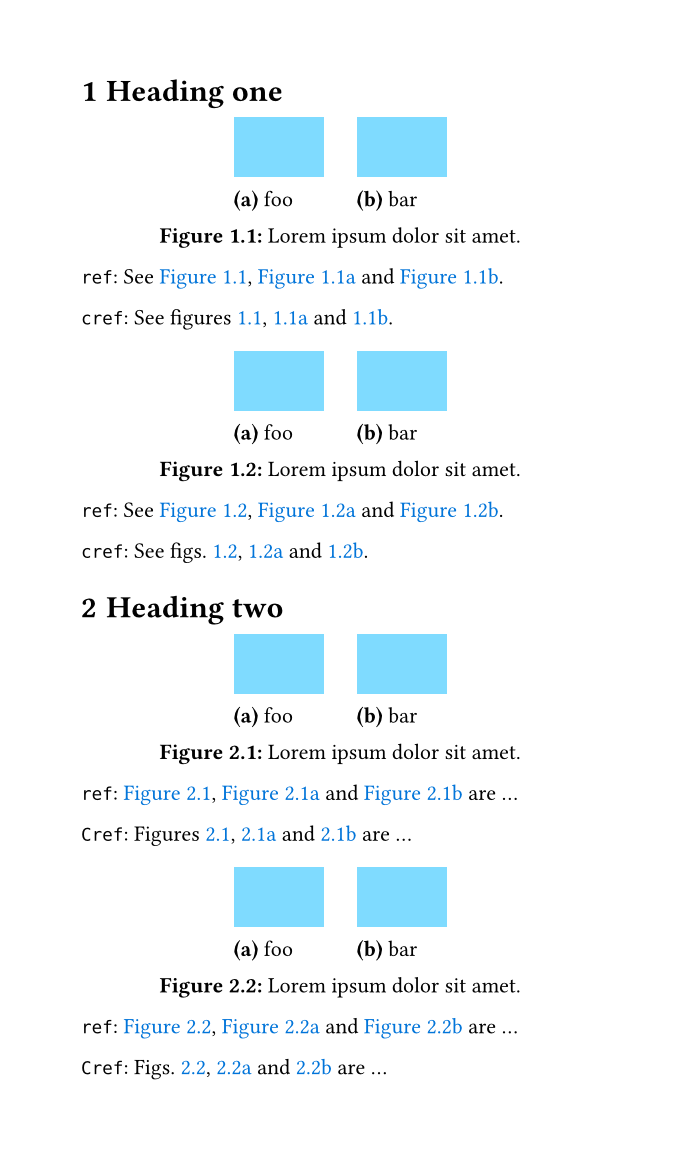
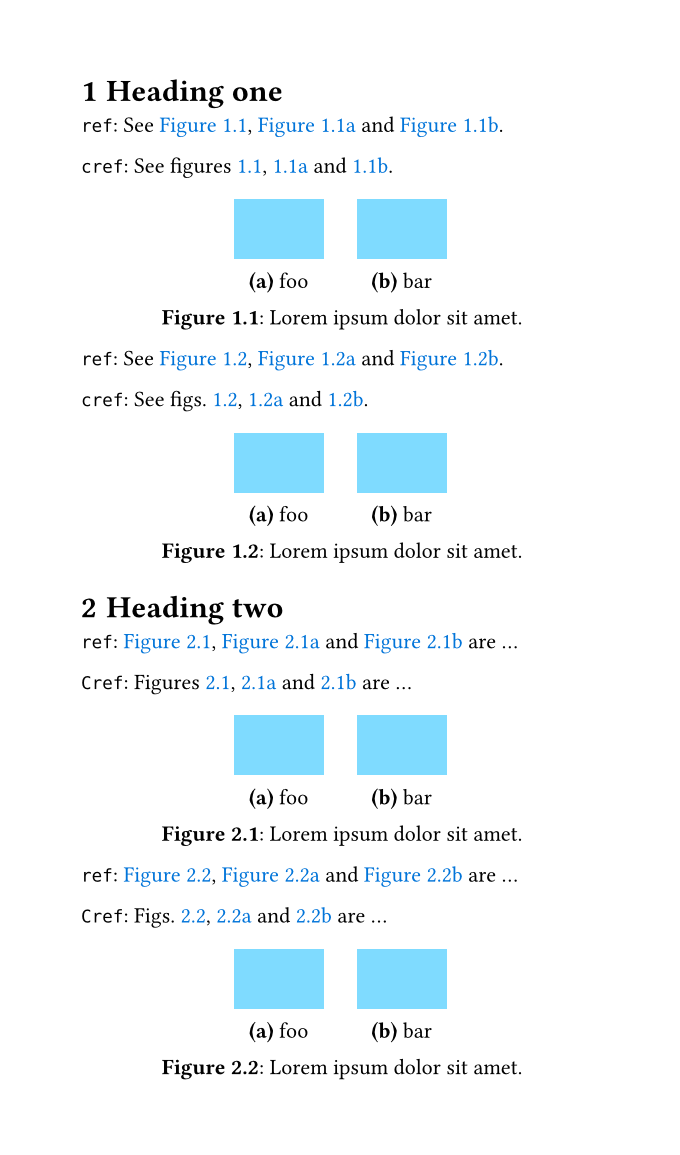
lib: prepare for compacting of consecutive references
To gain direct access to the nums array, use
`elem.counter.at(elem.location())` instead of using
the `show ref` rule.

This commit relies on the figure.level proposal (typst/typst#6767).

It also serves to demonstrate the subtle issues that arries
with the original behaviour of figure.counter. In particular,
contrast example/example-subpar.typ (orig behaviour) with
example/example-subfig.typ (new behaviour). The reference to
subfigure "1b" is broken in example-subpar.typ but works as
expected in example-subfig.typ.

diff --git a/README.md b/README.md
@@ -2,11 +2,11 @@
 
 Smart handling of consecutive references (i.e. `cleveref` for Typst).
 
-## Figures, tables and listings example
+## Figures, tables, listings, sections, equations and footnotes example
 
 See [example/example.typ](example/example.typ).
 
-![Figures, tables and listings example](example/example.png)
+![Figures, tables, listings, sections, equations and footnotes example](example/example.png)
 
 ## Subfigures example
 
@@ -14,6 +14,14 @@ See [example/example-subfig.typ](example/example-subfig.typ).
 
 ![Subfigures example](example/example-subfig.png)
 
+## Heading-dependent numbering of subfigures
+
 See [example/example-subfig-headings.typ](example/example-subfig-headings.typ).
 
-![Subfigure example using headings prefix](example/example-subfig-headings.png)
+![Heading-dependent numbering of subfigures](example/example-subfig-headings.png)
+
+## Subpar example
+
+See [example/example-subpar.typ](example/example-subpar.typ).
+
+![Subfigures example](example/example-subpar.png)
